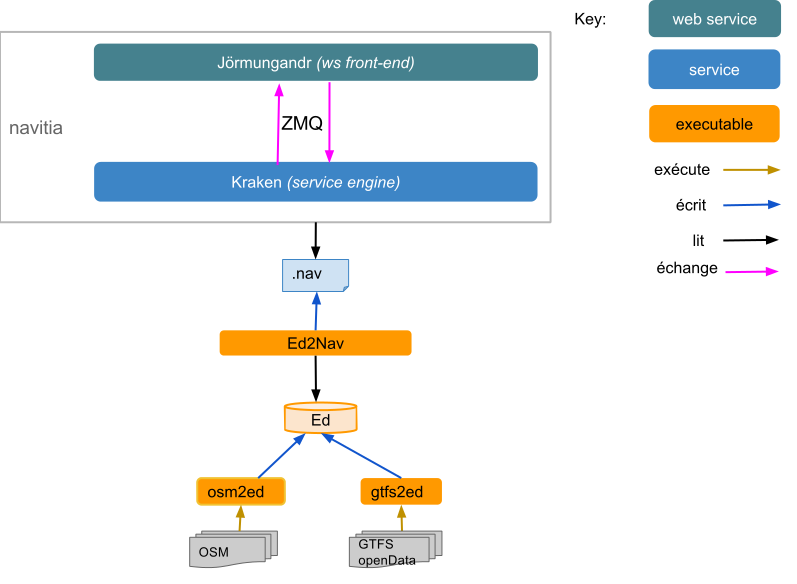
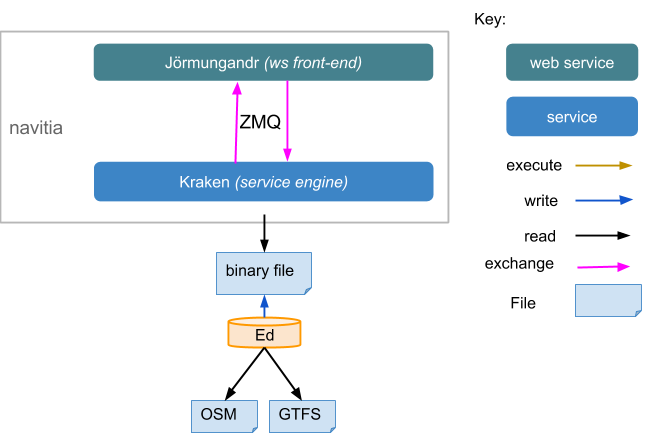
Documentation: Misc update
diagrams update
add a link to the install.rst doc
update of the dependencies

diff --git a/install.rst b/install.rst
@@ -5,17 +5,30 @@ How to build kraken and run it
 Dependencies
 ============
 
-* gcc 4.7 or newer
-* cmake
-* log4cplus
-* osmpbf (https://github.com/scrosby/OSM-binary)
-* boost
-* zeromq 2.2
-* libpqxx 3
-* libgoogle-perftools-dev
-* rabbitmq (>=3.1)
-* pika (>=0.9.7)
-* psycopg2
+#. C++
+
+   * gcc 4.7 or newer
+   * cmake
+   * log4cplus
+   * osmpbf (https://github.com/scrosby/OSM-binary)
+   * boost
+   * zeromq 2.2
+   * libpqxx 3
+   * libgoogle-perftools-dev
+
+#. Python
+
+   * rabbitmq (>=3.1)
+   * zmq
+   * protobuf
+   * pika (>=0.9.7)
+   * psycopg2
+   * flask-restfull (https://github.com/l-vincent-l/flask-restful)
+   * werkzeug
+   * shapely
+   * six
+   * sqlalchemy
+   * redis
 
 Build instruction
 =================
@@ -47,6 +60,10 @@ We hope you got the source code from git.
 Testing
 =======
 
+#. Overview
+
+.. image:: documentation/diagrams/simple_archi_data_view.png
+
 #. Data configuration
 
    The data manager is called *ed*. It relies on GTFS and Open Street Map data centralized in a postgres database
@@ -65,7 +82,7 @@ Testing
 
 #. Once *ed* has been loaded with all the data, you have to export the data for *Kraken* with the ed2nav tool
 
-   This step will generate a ziped nav file that can be given as input to *Kraken*
+   This step will generate a compressed nav file that can be given as input to *Kraken*
 
 #. Running the *Kraken* backend
 

diff --git a/readme.rst b/readme.rst
@@ -34,9 +34,9 @@ At the root of the repository, several directories can be found:
 
 #. (debug|release): by convention, the build repositories
 
-Archtecture overview
-====================
-Navitia is made of of 3 main modules:
+Architecture overview
+=====================
+Navitia is made of 3 main modules:
 
 #. *Kraken* is the c++ core
 
@@ -46,7 +46,7 @@ Navitia is made of of 3 main modules:
 
 *Kraken* and *Jörmungandr* communicate with each other through protocol buffer messages send by ZMQ.
 
-Transportation data (in the `GTFS <https://developers.google.com/transit/gtfs/>`_ format) or routing data (from `OpenStreetMap <http://www.openstreetmap.org/>`_ for the moment) can be given to *Ed* . *Ed* produces a binary file used by *Kraken*.
+Transportation data (in the `GTFS <https://developers.google.com/transit/gtfs/>`_ format) or routing data (from `OpenStreetMap <http://www.openstreetmap.org/>`_ for the moment) can be given to *Ed*. *Ed* produces a binary file used by *Kraken*.
 
 .. image:: documentation/diagrams/simple_archi.png
 
@@ -59,3 +59,7 @@ Tools
 #. Python for the api 
 
 #. Doxygen and swagger for the automated documentation
+
+Installation
+============
+For the installation procedure, please refer to the installation documentation : install.rst
